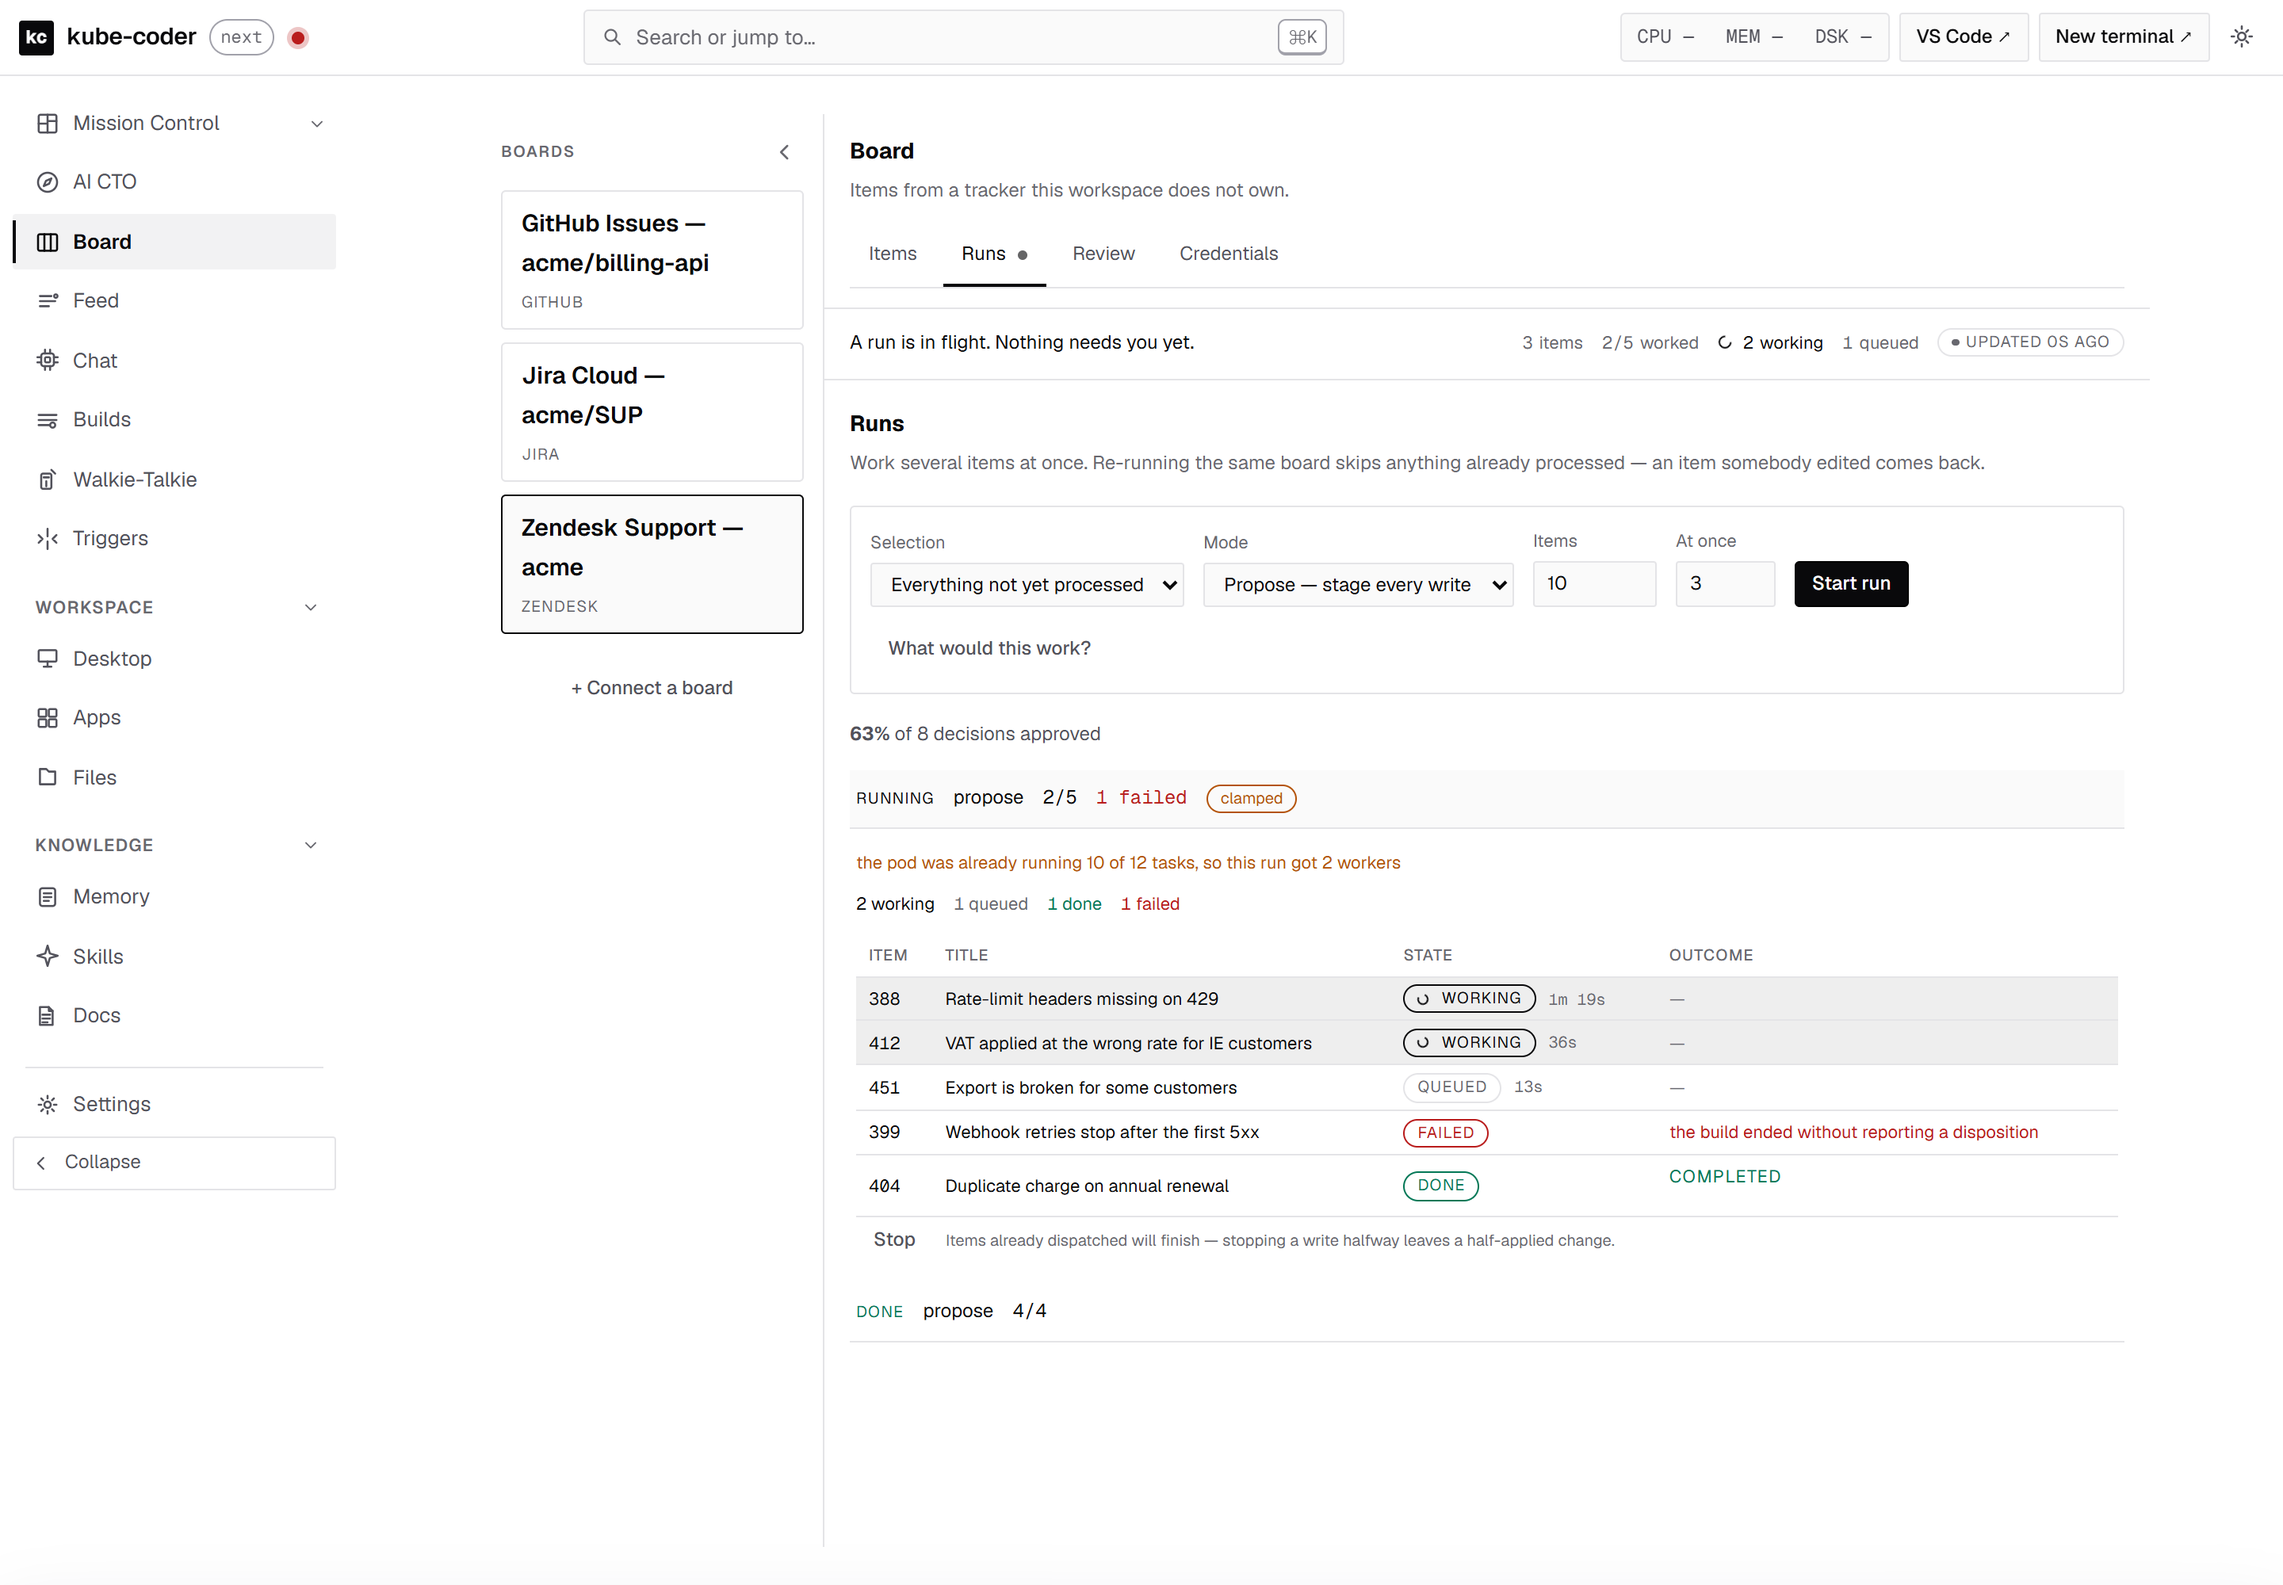
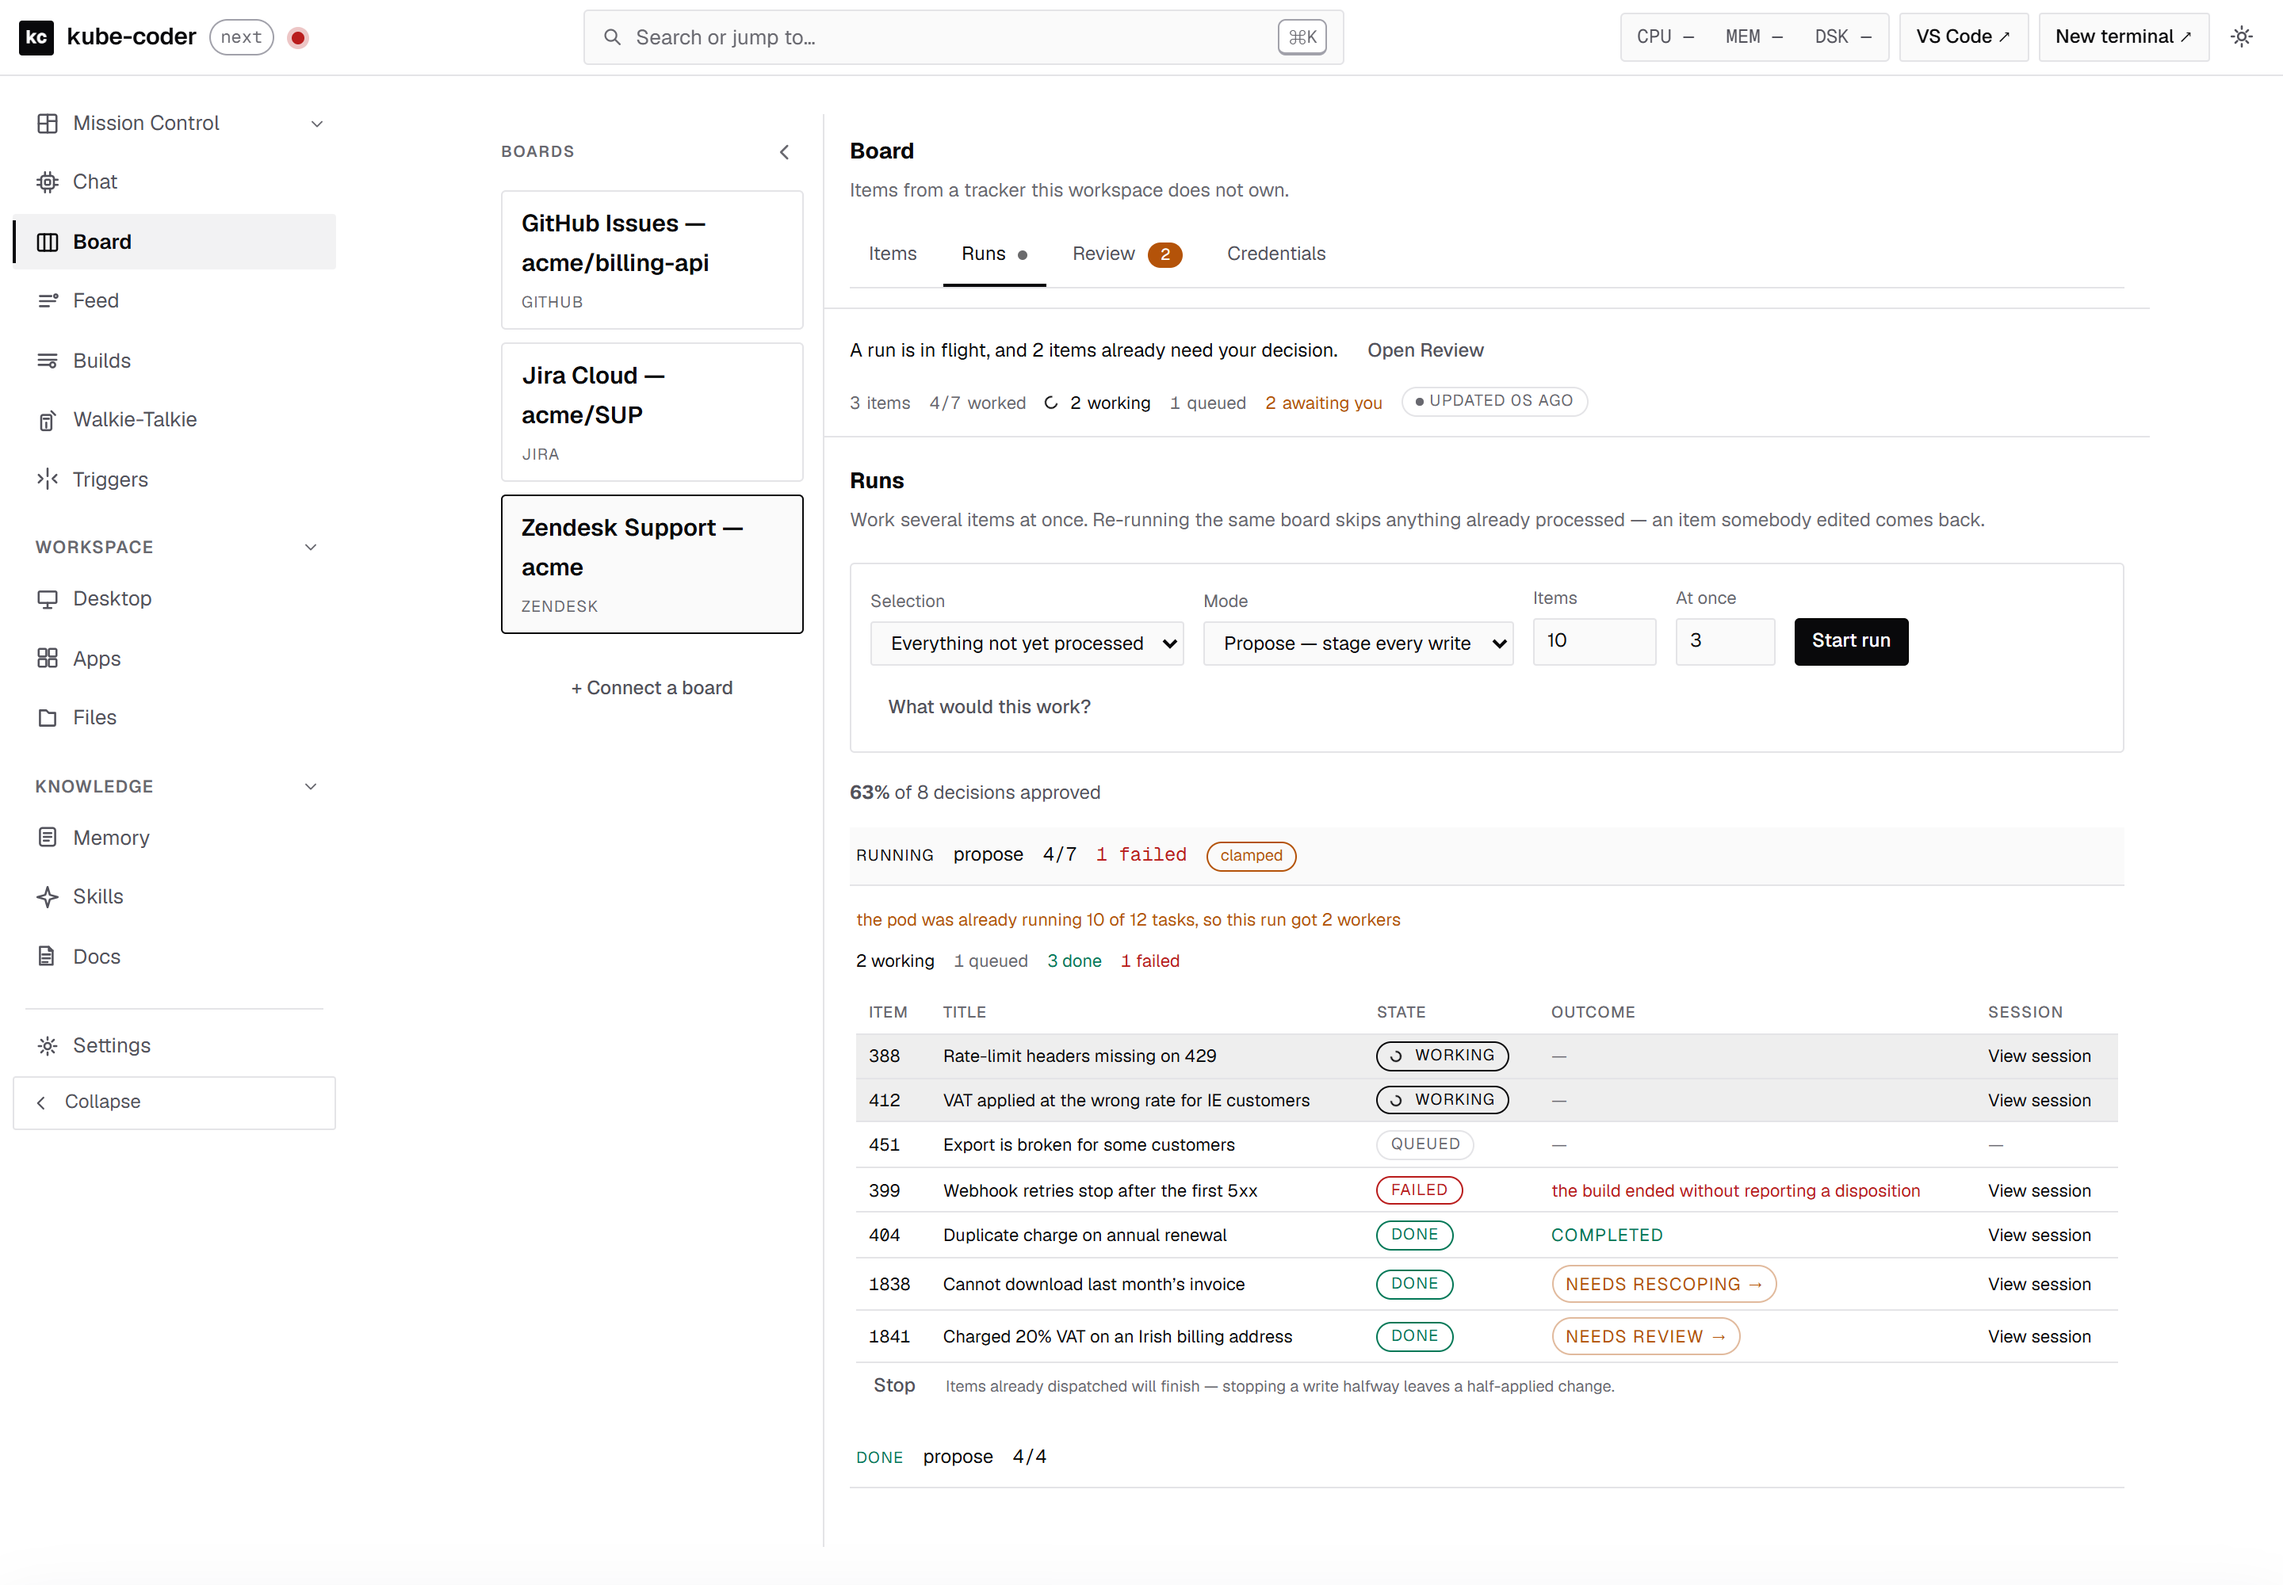
docs(board): document session links, outcome links, the badge and queue order (#704)
docs/boards.md: under Runs, the item table's Session column and outcome
buttons, and why there is no elapsed timer. Under Review, the queue order rule
and how the Review badge is loaded and kept current.

scripts/shoot-board.mjs: the live run now includes the two tickets waiting in
the review mock, so the outcome buttons appear. There is a new
board-review-focused shot taken by clicking an outcome from the Runs table.
The script now checks what it shows: View session must navigate to that Build
within 1s, and after an outcome click the Review tab must be active within 1s
and the card focused and in view within 1.5s. Failed checks exit non-zero
once every shot has been taken.

Screenshots: board-run-live regenerated, board-review-focused added. Light
theme only.

diff --git a/docs/boards.md b/docs/boards.md
@@ -31,9 +31,11 @@ whole connect flow screen by screen (`board-connect-*`, walked through
 [below](#connecting-a-board)), the items list with vendor statuses normalized
 (`board-items`), a run with its selection strategy and the "what would this
 work?" preview (`board-runs`, `board-preview`), a run **mid-flight** with live
-work sorted to the top of its item table (`board-run-live`), the credential
-store that never shows a value (`board-credentials`), and the review queue on a
-phone (`board-review-mobile`). Regenerate with
+work sorted to the top of its item table, a View session link per Build and
+outcomes that open their review card (`board-run-live`), the card that opens
+when you click one (`board-review-focused`), the credential store that never
+shows a value (`board-credentials`), and the review queue on a phone
+(`board-review-mobile`). Regenerate with
 `node scripts/shoot-board.mjs <out-dir>` from `charts/workspace/web`.
 
 ---
@@ -420,6 +422,23 @@ polls that source rather than arming a watcher per item (`WatcherManager` caps
 at 8 per thread). `waiting-for-input` counts as terminal, because an interactive
 Build keeps its REPL alive after finishing the work.
 
+The run's item table on `/board` goes from each row to what happens next
+(#704):
+
+![A run mid-flight: View session per Build, and outcomes that open their card](screenshots/board-processor/board-run-live.png)
+
+- **Session** links every item that has a Build to its page, `/tasks/<task_id>`:
+  the live terminal while the agent works, its history once it has stopped. It
+  is a real link, so Ctrl/Cmd-click opens a new tab. A queued item has no Build
+  yet and shows a dash.
+- **Outcome** is a button when the item has a review card on this board. It
+  opens the Review tab on that card, scrolled into view and focused. An item
+  whose build failed before reporting has no card, and its outcome stays text.
+- There is **no elapsed timer**. The only timestamp a row carries is
+  `updated_at`, which the server rewrites on every change to the row, so any
+  clock built on it measures "since this row last changed", not time spent on
+  the ticket.
+
 ---
 
 ## Dispositions and staged actions
@@ -465,6 +484,23 @@ Desktop `/board` has four tabs — Items, Runs, Review, Credentials. The unit of
 review is the **staged action diff**, not a transcript: proposed writes, the
 reason, evidence chips, and a deep link out to the real ticket. If a decision
 needs the agent's full log, the agent has not summarised well enough.
+
+**Order.** `boards.review.group_by_disposition` decides it, on the server, so
+web and mobile agree (#704). Groups keep a fixed disposition order (needs
+review, needs rescoping, blocked, failed, completed, rejected), but any group
+still holding a waiting card rises above the fully decided ones. Inside a
+group, waiting cards (`pending`, `partial`) come first, then ticket order, with
+digit runs compared as numbers: `9` before `10`, `SUP-9` before `SUP-10`. Each
+group reports how many of its cards are `open`.
+
+**The Review badge** counts waiting cards on the selected board, on every tab.
+The route reads the queue on arrival and on every board switch (a local file,
+not a vendor call). After that, `boards.review` events keep it current, and
+while a run is live with the event stream down, the 3s run poll does. A read
+that answers after a newer one, or for a board no longer selected, is dropped,
+so the count cannot go backwards or show another board's number.
+
+![Arriving from a run item's outcome: the card is in view and focused](screenshots/board-processor/board-review-focused.png)
 
 An item needing a human emits a waiting `FeedManager` item, which drives both
 the feed row and the topbar waiting badge. `board:<board_id>:<item_id>` links
